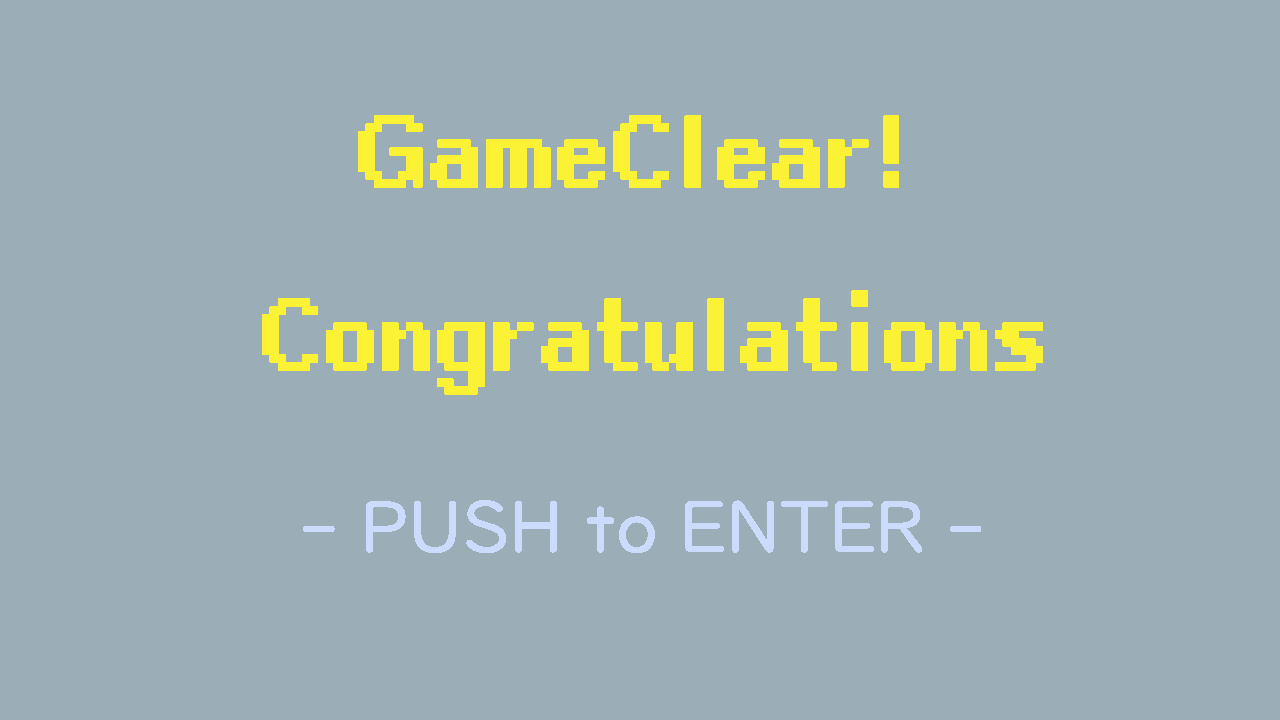
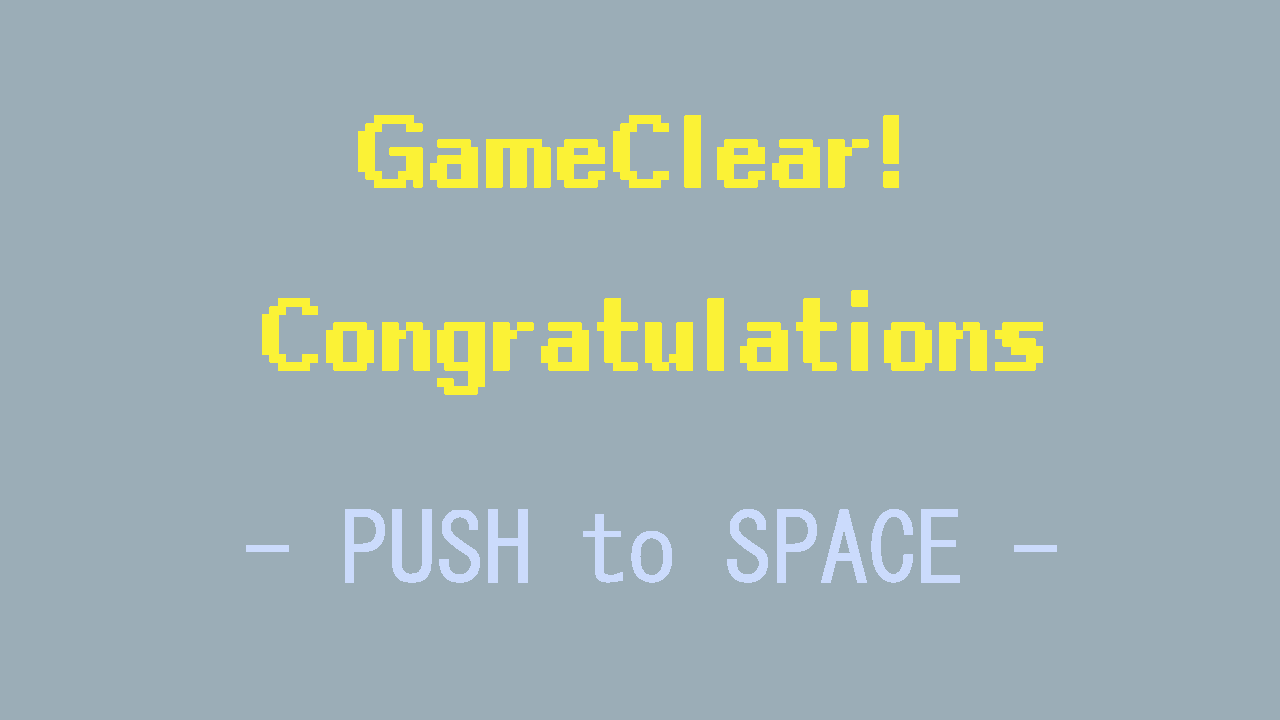
シーン追加

Changed region(s): [[0.1875, 0.6722, 0.75, 0.825], [0.7812, 0.7333, 0.8125, 0.7639]]

diff --git a/projects/Game/Scene/ExplanationScene.cpp b/projects/Game/Scene/ExplanationScene.cpp
@@ -1,24 +1,24 @@
-#include "TitleScene.h"
+#include "ExplanationScene.h"
 
 #include "Engine/Base/System/System.h"
 #include "GameScene.h"
 
-void TitleScene::Init() {
+void ExplanationScene::Init() {
 
 	// テクスチャの読み込み
-	const std::string& titleTexture = "./Resources/images/Title.png";
-	TextureManager::GetInstance()->LoadTexture(titleTexture);
+	const std::string& explanationTexture = "./Resources/images/Explanation.png";
+	TextureManager::GetInstance()->LoadTexture(explanationTexture);
 
 	// Sprite
 	sprite_ = std::make_unique<Sprite>();
-	sprite_->Init(titleTexture);
+	sprite_->Init(explanationTexture);
 
 	camera_ = std::make_unique<Camera>();
 	camera_->SetRotate({0.0f, 0.0f, 0.0f});
 	camera_->SetTranslate({0.0f, 0.0f, -10.0f});
 }
 
-void TitleScene::Update() {
+void ExplanationScene::Update() {
 
 	// Sprite描画前処理
 	// sprite_->PreDraw();
@@ -31,10 +31,10 @@ void TitleScene::Update() {
 
 	if (System::TriggerKey(DIK_SPACE)) {
 		// ゲームシーンを生成
-		sceneManager_->ChangeScene("EXPLANATION");
+		sceneManager_->ChangeScene("GAME");
 	}
 }
 
-void TitleScene::Draw() { sprite_->Draw(); }
+void ExplanationScene::Draw() { sprite_->Draw(); }
 
-void TitleScene::Finalize() {}
+void ExplanationScene::Finalize() {}

diff --git a/projects/Game/Scene/ClearScene.cpp b/projects/Game/Scene/ClearScene.cpp
@@ -1,0 +1,34 @@
+#include "ClearScene.h"
+
+#include "Engine/Base/System/System.h"
+#include "GameScene.h"
+
+void ClearScene::Init() {
+
+	// テクスチャの読み込み
+	const std::string& clearTexture = "./Resources/images/Clear.png";
+	TextureManager::GetInstance()->LoadTexture(clearTexture);
+
+	// Sprite
+	sprite_ = std::make_unique<Sprite>();
+	sprite_->Init(clearTexture);
+}
+
+void ClearScene::Update() {
+
+	// Sprite描画前処理
+	// sprite_->PreDraw();
+
+	sprite_->Update();
+
+	sprite_->ImGuiDebug();
+
+	if (System::TriggerKey(DIK_SPACE)) {
+		// ゲームシーンを生成
+		sceneManager_->ChangeScene("TITLE");
+	}
+}
+
+void ClearScene::Draw() { sprite_->Draw(); }
+
+void ClearScene::Finalize() {}

diff --git a/projects/Game/Scene/ExplanationScene.h b/projects/Game/Scene/ExplanationScene.h
@@ -1,0 +1,31 @@
+#pragma once
+
+#include "Engine/Base/DirectXCommon/DirectXCommon.h"
+#include "Engine/Base/PSO/PipelineManager/PipelineManager.h"
+
+#include "Engine/Base/2d/Sprite/Sprite.h"
+#include "Engine/Base/3d/Object3d/Object3d.h"
+#include "Engine/Base/Audio/Audio.h"
+#include "Engine/Base/Camera/Camera.h"
+#include "Engine/lib/Input/Input.h"
+
+#include "Game/Scene/IScene.h"
+#include "Game/Scene/SceneManager.h"
+
+class ExplanationScene : public IScene {
+
+public:
+	void Init() override;
+
+	void Update() override;
+
+	void Draw() override;
+
+	void Finalize() override;
+
+private:
+	// Camera
+	std::unique_ptr<Camera> camera_ = nullptr;
+	// Sprite
+	std::unique_ptr<Sprite> sprite_ = nullptr;
+};

diff --git a/projects/Game/Scene/GameScene.cpp b/projects/Game/Scene/GameScene.cpp
@@ -18,6 +18,7 @@ void GameScene::Init() {
 	// Sprite
 	sprite_ = std::make_unique<Sprite>();
 	sprite_->Init(target);
+	sprite_->SetPosition({-100.0f, -100.0f});
 
 	object3d_ = std::make_unique<Object3d>();
 	object3d_->Init();
@@ -115,7 +116,7 @@ void GameScene::Update() {
 	ImGui::Begin("camera");
 
 	ImGui::End();
-	
+
 	camera_->ImGuiDebug();
 	sprite_->ImGuiDebug();
 	player_->ImGuiDebug();
@@ -175,6 +176,6 @@ void GameScene::CheckCollisions() {
 
 	// 敵が全ていなくなった場合
 	if (enemies_.empty()) {
-		sceneManager_->ChangeScene("TITLE");
+		sceneManager_->ChangeScene("CLEAR");
 	}
 }

diff --git a/projects/Game/Scene/ClearScene.h b/projects/Game/Scene/ClearScene.h
@@ -1,0 +1,25 @@
+#pragma once
+
+#include "Engine/Base/2d/Sprite/Sprite.h"
+#include "Engine/Base/3d/Object3d/Object3d.h"
+#include "Engine/Base/Audio/Audio.h"
+#include "Engine/Base/Camera/Camera.h"
+
+#include "Game/Scene/IScene.h"
+#include "Game/Scene/SceneManager.h"
+
+class ClearScene : public IScene {
+
+public:
+	void Init() override;
+
+	void Update() override;
+
+	void Draw() override;
+
+	void Finalize() override;
+
+private:
+	// Sprite
+	std::unique_ptr<Sprite> sprite_ = nullptr;
+};

diff --git a/projects/Game/Scene/SceneFactory.cpp b/projects/Game/Scene/SceneFactory.cpp
@@ -6,6 +6,10 @@ std::unique_ptr<IScene> SceneFactory::CreateScene(const std::string& sceneName) 
 		return std::make_unique<TitleScene>();
 	} else if (sceneName == "GAME") {
 		return std::make_unique<GameScene>();
+	} else if (sceneName == "CLEAR") {
+		return std::make_unique<ClearScene>();
+	} else if (sceneName == "EXPLANATION") {
+		return std::make_unique<ExplanationScene>();
 	}
 	return nullptr;
 }

diff --git a/projects/Game/Scene/SceneFactory.h b/projects/Game/Scene/SceneFactory.h
@@ -4,6 +4,8 @@
 
 #include "Game/Scene/GameScene.h"
 #include "Game/Scene/TitleScene.h"
+#include "Game/Scene/ClearScene.h"
+#include "Game/Scene/ExplanationScene.h"
 
 class SceneFactory : public AbstractSceneFactory {
 

diff --git a/projects/Game/Scene/SceneManager.h b/projects/Game/Scene/SceneManager.h
@@ -6,7 +6,7 @@
 
 #include "Game/Scene/AbstractSceneFactory.h"
 #include "Game/Scene/IScene.h"
-#include <memory> // std::unique_ptr
+#include <memory>
 
 class SceneManager {
 

diff --git a/projects/Game/Objects/PlayerBullet/PlayerBullet.h b/projects/Game/Objects/PlayerBullet/PlayerBullet.h
@@ -37,5 +37,5 @@ private:
 	float speed_ = 0.1f;
 	Vector3 direction_;
 
-	float radius_ = 0.8f;
+	float radius_ = 0.2f;
 };
